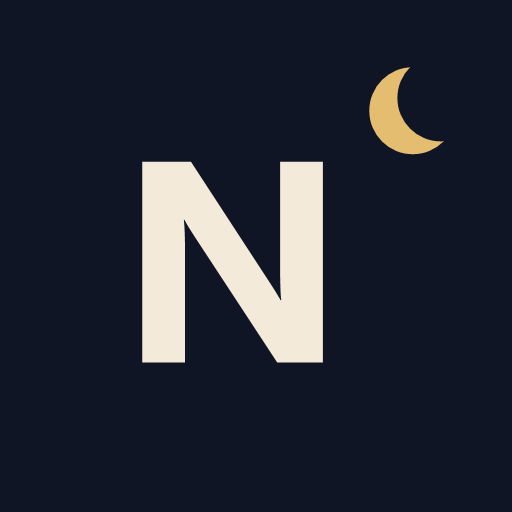
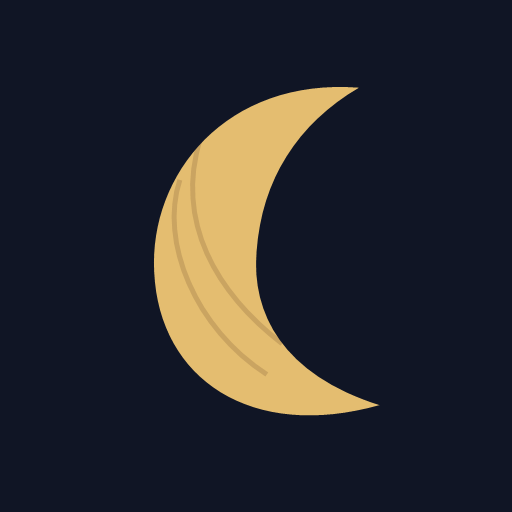
Replace brand monogram with doodled crescent

Changed region(s): [[0.25, 0.1562, 0.75, 0.8125], [0.7188, 0.125, 0.875, 0.3125]]

diff --git a/app/globals.css b/app/globals.css
@@ -20,14 +20,12 @@ a { color: inherit; text-decoration: none; }
 .wordmark { display:inline-flex; align-items:center; gap:12px; font-size:1.08rem; font-weight:700; }
 .wordmark-text { display:inline-flex; align-items:baseline; gap:10px; }
 .wordmark-text small { color:#736f68; font:italic .72rem Georgia,serif; font-weight:400; }
-.brand-mark { position:relative; isolation:isolate; width:36px; height:36px; flex:0 0 36px; display:grid; place-items:center; overflow:hidden; background:#101525; color:#f3ead9; font:600 1.28rem/1 "Segoe UI",Arial,sans-serif !important; letter-spacing:-.09em; border-radius:7px; box-shadow:inset 0 0 0 1px rgba(243,234,217,.12); }
-.brand-mark::before, .brand-mark::after { content:""; position:absolute; z-index:-1; border-radius:50%; pointer-events:none; }
-.brand-mark::before { width:6px; height:6px; right:4px; top:5px; background:#e4bd70; }
-.brand-mark::after { width:6px; height:6px; right:2px; top:4px; background:#101525; }
-.brand-mark.compact { width:30px; height:30px; flex-basis:30px; border-radius:6px; font-size:1.05rem !important; }
-.brand-mark.compact::before, .brand-mark.compact::after { width:5px; height:5px; }
-.brand-mark.compact::before { right:3px; top:4px; }
-.brand-mark.compact::after { right:1px; top:3px; }
+.doodle-moon { --moon-cutout:#101525; position:relative; display:inline-block; width:.72em; height:1em; overflow:hidden; border-radius:58% 43% 55% 46% / 49% 45% 57% 52%; background:radial-gradient(circle at 31% 28%,rgba(111,75,43,.3) 0 .035em,transparent .055em),radial-gradient(circle at 36% 63%,rgba(255,239,190,.2) 0 .028em,transparent .05em),#e4bd70; box-shadow:inset .035em -.025em 0 rgba(113,75,40,.2); transform:rotate(-8deg); }
+.doodle-moon::after { content:""; position:absolute; width:78%; height:93%; left:43%; top:-7%; border-radius:54% 49% 47% 56% / 48% 55% 45% 52%; background:var(--moon-cutout); transform:rotate(4deg); }
+.brand-mark { position:relative; width:36px; height:36px; flex:0 0 36px; display:grid; place-items:center; overflow:hidden; background:#101525; border-radius:7px; box-shadow:inset 0 0 0 1px rgba(243,234,217,.12); }
+.brand-mark .doodle-moon { width:18px; height:25px; }
+.brand-mark.compact { width:30px; height:30px; flex-basis:30px; border-radius:6px; }
+.brand-mark.compact .doodle-moon { width:15px; height:21px; }
 nav { display: flex; gap: clamp(20px, 4vw, 48px); font-size: .86rem; }
 nav a { position: relative; }
 nav a::after { content: ""; position: absolute; left: 0; right: 100%; bottom: -7px; border-bottom: 1px solid; transition: right .25s; }
@@ -93,8 +91,9 @@ nav a:hover::after, nav a:focus-visible::after { right: 0; }
 .note div > p:last-child { margin:0; color:#625e5a; line-height:1.75; font-size:.9rem; }
 .note-arrow { font-size:1.2rem; transition:transform .2s; }.note:hover .note-arrow { transform:translate(5px,-5px); }
 .about { background:#20222c; color:#e8dfd1; padding:90px clamp(24px,8vw,128px); display:grid; grid-template-columns:.45fr .8fr 1.3fr; gap:50px; align-items:center; }
-.about-mark { font-size:5rem; color:#d8ad67; margin:0; }.about h2 { margin:0; font-size:clamp(1.8rem,3vw,3.4rem); font-weight:500; }.about > p:last-child { line-height:2.1; color:#bcb4aa; max-width:40em; }
-footer { background:#171820; color:#8e8983; display:flex; justify-content:space-between; padding:26px clamp(24px,8vw,128px); font-size:.72rem; letter-spacing:.08em; }
+.about-mark { margin:0; }.about-mark .doodle-moon { --moon-cutout:#20222c; width:3.1rem; height:4.4rem; }.about h2 { margin:0; font-size:clamp(1.8rem,3vw,3.4rem); font-weight:500; }.about > p:last-child { line-height:2.1; color:#bcb4aa; max-width:40em; }
+footer { background:#171820; color:#8e8983; display:flex; justify-content:space-between; align-items:center; padding:26px clamp(24px,8vw,128px); font-size:.72rem; letter-spacing:.08em; }
+.footer-moon { --moon-cutout:#171820; width:10px; height:15px; opacity:.78; }
 
 .inner-page { min-height:100svh; background:#eee8dc; }
 .inner-topbar { position:relative; height:94px; padding:0 clamp(24px,6vw,88px); display:grid; grid-template-columns:1fr auto 1fr; align-items:center; border-bottom:5px solid #27242a; background:#e8e1d5; }
@@ -124,9 +123,9 @@ footer { background:#171820; color:#8e8983; display:flex; justify-content:space-
 .inner-heading > span { color:#69635e; line-height:1.8; font-size:.9rem; }
 .article-index article { display:grid; grid-template-columns:.65fr 2.35fr auto; gap:40px; padding:38px 0; border-bottom:1px solid rgba(32,31,38,.24); align-items:start; }
 .article-number { color:#9b5b4e; font:italic 1rem Georgia,serif; }.article-index article p { margin:0 0 11px; color:#827970; font-size:.72rem; letter-spacing:.08em; }.article-index h2 { margin:0 0 11px; font-size:clamp(1.35rem,2.3vw,2.15rem); font-weight:500; }.article-index article div > span { color:#68635e; line-height:1.75; font-size:.9rem; }.article-index article > a { font-size:1.2rem; transition:transform .2s; }.article-index article:hover > a { transform:translate(4px,-4px); }
-.about-story { display:grid; grid-template-columns:.65fr 2.35fr; gap:40px; padding-top:70px; }.story-moon { color:#b77a4a; font-size:7rem; line-height:1; }.about-story > div { max-width:680px; }.about-story p { margin:0 0 28px; font-size:clamp(1.05rem,1.8vw,1.3rem); line-height:2.1; }.about-story a { display:inline-block; margin-top:20px; padding-bottom:7px; border-bottom:1px solid; font-size:.86rem; letter-spacing:.08em; }.about-story a span { margin-left:34px; }
+.about-story { display:grid; grid-template-columns:.65fr 2.35fr; gap:40px; padding-top:70px; }.story-moon .doodle-moon { --moon-cutout:#eee8dc; width:4.9rem; height:6.8rem; }.about-story > div { max-width:680px; }.about-story p { margin:0 0 28px; font-size:clamp(1.05rem,1.8vw,1.3rem); line-height:2.1; }.about-story a { display:inline-block; margin-top:20px; padding-bottom:7px; border-bottom:1px solid; font-size:.86rem; letter-spacing:.08em; }.about-story a span { margin-left:34px; }
 .author-note { margin:58px 0 18px; padding:30px; display:grid; grid-template-columns:72px minmax(0,1fr); gap:24px; align-items:start; border:1px solid rgba(32,31,38,.24); background:rgba(255,255,255,.14); }
-.author-monogram { width:64px; height:64px; display:grid; place-items:center; border-radius:9px; background:#101525; color:#f3ead9; font:600 2rem/1 "Segoe UI",Arial,sans-serif !important; }
+.author-monogram { width:64px; height:64px; display:grid; place-items:center; border-radius:9px; background:#101525; }.author-monogram .doodle-moon { width:27px; height:38px; }
 .about-story .author-note p { margin:0 0 8px; color:#9b5b4e; font:.68rem Arial,sans-serif; letter-spacing:.18em; text-transform:uppercase; }
 .author-note h2 { margin:0 0 14px; font-size:1.7rem; font-weight:500; }
 .author-note div div { color:#5d5853; font-size:1rem; line-height:1.95; }
@@ -177,7 +176,7 @@ footer { background:#171820; color:#8e8983; display:flex; justify-content:space-
 .safe-markdown { padding-top:55px; color:#484440; font-size:1rem; line-height:2; }.safe-markdown h1, .safe-markdown h2, .safe-markdown h3 { color:#242227; font-weight:500; line-height:1.35; }.safe-markdown h1 { margin:58px 0 22px; font-size:2.5rem; }.safe-markdown h2 { margin:52px 0 20px; font-size:2rem; }.safe-markdown h3 { margin:42px 0 17px; font-size:1.5rem; }.safe-markdown p { margin:0 0 24px; }.safe-markdown ul, .safe-markdown ol { padding-left:1.4em; margin:0 0 28px; }.safe-markdown blockquote { margin:30px 0; padding:18px 24px; border-left:4px solid #a65346; background:#e3dacd; color:#5b514c; }.safe-markdown a { color:#9d4e43; border-bottom:1px solid currentColor; }.safe-markdown code:not(pre code) { padding:2px 6px; background:#ded5c8; font: .88em Consolas,monospace; }.safe-markdown img { display:block; width:100%; max-height:720px; object-fit:contain; margin:38px auto; background:#d9d0c4; }.markdown-code { margin:32px 0; background:#1d202a; color:#eee7da; box-shadow:7px 7px 0 #cbbfb1; }.markdown-code small { display:block; padding:9px 16px; border-bottom:1px solid #3b3d46; color:#c89874; font:.62rem Arial,sans-serif; letter-spacing:.14em; text-transform:uppercase; }.markdown-code pre { margin:0; padding:24px; overflow:auto; line-height:1.75; font:.82rem Consolas,"Courier New",monospace; }
 
 .studio-page, .studio-gate { min-height:100svh; background:#151821; color:#ebe4d9; }.studio-gate { display:grid; place-items:center; padding:30px; background:radial-gradient(circle at 65% 25%,#303442 0,transparent 34%),#151821; }.studio-gate section { width:min(530px,100%); padding:52px; border:1px solid #4a4d58; background:rgba(27,30,39,.92); box-shadow:22px 22px 0 rgba(0,0,0,.2); text-align:center; }.studio-gate section > span { color:#cf9f69; font:.66rem Arial,sans-serif; letter-spacing:.2em; text-transform:uppercase; }.studio-gate h1 { margin:18px 0 22px; font-size:clamp(2rem,3.4vw,2.9rem); font-weight:500; }.studio-gate p { color:#b9b3aa; line-height:1.9; }.studio-gate small { display:block; margin-top:24px; color:#85858b; line-height:1.6; }.studio-login-state { width:max-content; margin:22px auto 0; padding:7px 11px; display:flex; align-items:center; gap:8px; border:1px solid #555965; color:#b9b3aa; font-size:.75rem; }.studio-login-state i, .studio-session-state i { width:7px; height:7px; border-radius:50%; background:#a86257; }.studio-google-login { min-height:80px; margin-top:22px; display:grid; place-items:center; align-content:center; }.studio-google-button { min-height:44px; display:flex; justify-content:center; }.studio-login-loading { margin:8px 0 0; font-size:.75rem; }.studio-login-fallback { margin-top:8px; }.studio-login-fallback p { margin:0 0 10px; color:#f0b5a9; font-size:.8rem; }.studio-login-fallback button { padding:9px 13px; border:1px solid #a97057; background:#a65346; color:#fff; cursor:pointer; font-family:inherit; }.studio-login-error { margin:18px 0 0; padding:12px; border:1px solid #a86257; color:#f0b5a9; font-size:.82rem; }
-.studio-shell { min-height:100svh; background:#171a23; }.studio-header { height:86px; padding:0 34px; display:flex; align-items:center; justify-content:space-between; border-bottom:1px solid #3b3e48; background:#1e212b; }.studio-header > div:first-child { display:flex; align-items:baseline; gap:18px; }.studio-header span { color:#c79568; font:.62rem Arial,sans-serif; letter-spacing:.16em; text-transform:uppercase; }.studio-header h1 { margin:0; font-size:1.45rem; font-weight:500; }.studio-header > div:last-child { display:flex; align-items:center; gap:20px; }.studio-header small { color:#96959b; }.studio-session-state { padding:6px 9px; display:inline-flex; align-items:center; gap:7px; border:1px solid #48564d; color:#9fc2a5 !important; }.studio-session-state i { flex:0 0 auto; background:#78a982; box-shadow:0 0 0 3px rgba(120,169,130,.12); }.studio-header button { border:1px solid #555862; background:transparent; color:#d9d3cb; padding:8px 13px; cursor:pointer; }.studio-layout { min-height:calc(100svh - 86px); display:grid; grid-template-columns:285px minmax(0,1fr); }.studio-sidebar { padding:22px; border-right:1px solid #3b3e48; background:#1b1e27; }.studio-new { width:100%; padding:13px; border:1px solid #a97057; background:#a65346; color:white; cursor:pointer; font-family:inherit; }.studio-sidebar nav { margin-top:24px; display:flex; flex-direction:column; gap:7px; }.studio-sidebar nav button { width:100%; padding:15px; border:1px solid transparent; background:transparent; color:#d7d0c7; text-align:left; cursor:pointer; font-family:inherit; }.studio-sidebar nav button.active { border-color:#555865; background:#282b35; }.studio-sidebar nav button span, .studio-sidebar nav button small { display:block; color:#898891; font-size:.63rem; }.studio-sidebar nav button strong { display:block; margin:7px 0; overflow:hidden; text-overflow:ellipsis; white-space:nowrap; font-size:.85rem; font-weight:500; }.studio-editor { position:relative; display:grid; grid-template-columns:minmax(420px,1fr) minmax(320px,.72fr); min-width:0; }.studio-fields { padding:38px; border-right:1px solid #3b3e48; }.studio-fields label > span, .studio-preview > span { display:block; margin-bottom:8px; color:#9f9da3; font:.65rem Arial,sans-serif; letter-spacing:.12em; text-transform:uppercase; }.studio-fields label { display:block; margin-bottom:24px; }.studio-fields input, .studio-fields textarea, .studio-fields select { width:100%; border:1px solid #484b55; outline:0; background:#20232d; color:#eee7dc; padding:12px 13px; font:inherit; }.studio-fields input:focus, .studio-fields textarea:focus, .studio-fields select:focus { border-color:#bc7a60; }.studio-field-row { display:grid; grid-template-columns:.55fr 1fr; gap:16px; }.studio-excerpt { height:82px; resize:vertical; }.studio-content { min-height:480px; resize:vertical; line-height:1.8; font-family:Consolas,"Courier New",monospace !important; font-size:.86rem !important; }.editor-toolbar { display:flex; flex-wrap:wrap; gap:7px; margin:-4px 0 12px; }.editor-toolbar button, .image-upload { border:1px solid #4c4f5a; background:#262934; color:#c8c3bd; padding:7px 10px; cursor:pointer; font: .7rem Arial,sans-serif; }.image-upload input { display:none; }.studio-preview { padding:38px; min-width:0; overflow:auto; background:#e9e2d7; color:#29272b; }.studio-preview .safe-markdown { padding-top:20px; }.studio-preview .safe-markdown h1 { font-size:2rem; }.studio-preview .safe-markdown h2 { font-size:1.55rem; }.studio-preview .safe-markdown h3 { font-size:1.25rem; }.studio-actions { grid-column:1/-1; position:sticky; bottom:0; z-index:3; padding:16px 28px; display:flex; justify-content:space-between; align-items:center; background:#22252f; color:#aaa7a6; border-top:1px solid #42454f; font-size:.72rem; }.studio-actions > div { display:flex; align-items:center; gap:8px; }.studio-actions button, .studio-welcome button { padding:10px 14px; border:1px solid #555965; background:transparent; color:#ddd7ce; cursor:pointer; font-family:inherit; }.studio-actions button.publish, .studio-welcome button { border-color:#a65346; background:#a65346; color:white; }.studio-actions button.archive { color:#c79588; }.studio-actions button:disabled, .studio-new:disabled { opacity:.55; cursor:wait; }.status-dot { width:8px; height:8px; border-radius:50%; background:#8b8990; }.status-dot.published { background:#7eaa7e; }.status-dot.archived { background:#a36b64; }.studio-message { position:fixed; right:25px; bottom:78px; z-index:5; max-width:430px; margin:0; padding:12px 16px; background:#2d303a; border:1px solid #5d6069; color:#e5ded5; box-shadow:0 8px 28px rgba(0,0,0,.25); font-size:.78rem; }.studio-welcome { place-self:center; text-align:center; max-width:500px; }.studio-welcome > span { color:#d2a061; font-size:4rem; }.studio-welcome h2 { font-size:2.4rem; font-weight:500; }.studio-welcome p { color:#9e9ba0; line-height:1.8; }.studio-welcome button { margin-top:20px; }
+.studio-shell { min-height:100svh; background:#171a23; }.studio-header { height:86px; padding:0 34px; display:flex; align-items:center; justify-content:space-between; border-bottom:1px solid #3b3e48; background:#1e212b; }.studio-header > div:first-child { display:flex; align-items:baseline; gap:18px; }.studio-header span { color:#c79568; font:.62rem Arial,sans-serif; letter-spacing:.16em; text-transform:uppercase; }.studio-header h1 { margin:0; font-size:1.45rem; font-weight:500; }.studio-header > div:last-child { display:flex; align-items:center; gap:20px; }.studio-header small { color:#96959b; }.studio-session-state { padding:6px 9px; display:inline-flex; align-items:center; gap:7px; border:1px solid #48564d; color:#9fc2a5 !important; }.studio-session-state i { flex:0 0 auto; background:#78a982; box-shadow:0 0 0 3px rgba(120,169,130,.12); }.studio-header button { border:1px solid #555862; background:transparent; color:#d9d3cb; padding:8px 13px; cursor:pointer; }.studio-layout { min-height:calc(100svh - 86px); display:grid; grid-template-columns:285px minmax(0,1fr); }.studio-sidebar { padding:22px; border-right:1px solid #3b3e48; background:#1b1e27; }.studio-new { width:100%; padding:13px; border:1px solid #a97057; background:#a65346; color:white; cursor:pointer; font-family:inherit; }.studio-sidebar nav { margin-top:24px; display:flex; flex-direction:column; gap:7px; }.studio-sidebar nav button { width:100%; padding:15px; border:1px solid transparent; background:transparent; color:#d7d0c7; text-align:left; cursor:pointer; font-family:inherit; }.studio-sidebar nav button.active { border-color:#555865; background:#282b35; }.studio-sidebar nav button span, .studio-sidebar nav button small { display:block; color:#898891; font-size:.63rem; }.studio-sidebar nav button strong { display:block; margin:7px 0; overflow:hidden; text-overflow:ellipsis; white-space:nowrap; font-size:.85rem; font-weight:500; }.studio-editor { position:relative; display:grid; grid-template-columns:minmax(420px,1fr) minmax(320px,.72fr); min-width:0; }.studio-fields { padding:38px; border-right:1px solid #3b3e48; }.studio-fields label > span, .studio-preview > span { display:block; margin-bottom:8px; color:#9f9da3; font:.65rem Arial,sans-serif; letter-spacing:.12em; text-transform:uppercase; }.studio-fields label { display:block; margin-bottom:24px; }.studio-fields input, .studio-fields textarea, .studio-fields select { width:100%; border:1px solid #484b55; outline:0; background:#20232d; color:#eee7dc; padding:12px 13px; font:inherit; }.studio-fields input:focus, .studio-fields textarea:focus, .studio-fields select:focus { border-color:#bc7a60; }.studio-field-row { display:grid; grid-template-columns:.55fr 1fr; gap:16px; }.studio-excerpt { height:82px; resize:vertical; }.studio-content { min-height:480px; resize:vertical; line-height:1.8; font-family:Consolas,"Courier New",monospace !important; font-size:.86rem !important; }.editor-toolbar { display:flex; flex-wrap:wrap; gap:7px; margin:-4px 0 12px; }.editor-toolbar button, .image-upload { border:1px solid #4c4f5a; background:#262934; color:#c8c3bd; padding:7px 10px; cursor:pointer; font: .7rem Arial,sans-serif; }.image-upload input { display:none; }.studio-preview { padding:38px; min-width:0; overflow:auto; background:#e9e2d7; color:#29272b; }.studio-preview .safe-markdown { padding-top:20px; }.studio-preview .safe-markdown h1 { font-size:2rem; }.studio-preview .safe-markdown h2 { font-size:1.55rem; }.studio-preview .safe-markdown h3 { font-size:1.25rem; }.studio-actions { grid-column:1/-1; position:sticky; bottom:0; z-index:3; padding:16px 28px; display:flex; justify-content:space-between; align-items:center; background:#22252f; color:#aaa7a6; border-top:1px solid #42454f; font-size:.72rem; }.studio-actions > div { display:flex; align-items:center; gap:8px; }.studio-actions button, .studio-welcome button { padding:10px 14px; border:1px solid #555965; background:transparent; color:#ddd7ce; cursor:pointer; font-family:inherit; }.studio-actions button.publish, .studio-welcome button { border-color:#a65346; background:#a65346; color:white; }.studio-actions button.archive { color:#c79588; }.studio-actions button:disabled, .studio-new:disabled { opacity:.55; cursor:wait; }.status-dot { width:8px; height:8px; border-radius:50%; background:#8b8990; }.status-dot.published { background:#7eaa7e; }.status-dot.archived { background:#a36b64; }.studio-message { position:fixed; right:25px; bottom:78px; z-index:5; max-width:430px; margin:0; padding:12px 16px; background:#2d303a; border:1px solid #5d6069; color:#e5ded5; box-shadow:0 8px 28px rgba(0,0,0,.25); font-size:.78rem; }.studio-welcome { place-self:center; text-align:center; max-width:500px; }.studio-welcome > span { display:inline-block; }.studio-welcome > span .doodle-moon { --moon-cutout:#171a23; width:2.6rem; height:3.7rem; }.studio-welcome h2 { font-size:2.4rem; font-weight:500; }.studio-welcome p { color:#9e9ba0; line-height:1.8; }.studio-welcome button { margin-top:20px; }
 
 @media (max-width: 1100px) { .inner-nav a:nth-child(5) { display:none; } .studio-editor { grid-template-columns:1fr; }.studio-preview { border-top:1px solid #3b3e48; }.studio-actions { position:static; } }
 @media (max-width: 760px) { .published-post-list article { grid-template-columns:38px 1fr; gap:16px; }.published-post-list article > a { display:none; }.published-reading { padding-top:65px; }.studio-header { padding:0 18px; }.studio-header > div:first-child span, .studio-header small { display:none; }.studio-header > div:last-child { gap:8px; }.studio-session-state { padding:5px 7px; }.studio-layout { grid-template-columns:1fr; }.studio-sidebar { border-right:0; border-bottom:1px solid #3b3e48; }.studio-sidebar nav { display:grid; grid-template-columns:repeat(2,minmax(0,1fr)); max-height:220px; overflow:auto; }.studio-fields, .studio-preview { padding:24px 18px; }.studio-field-row { grid-template-columns:1fr; gap:0; }.studio-actions { flex-direction:column; align-items:stretch; gap:14px; }.studio-actions > div:last-child { display:grid; grid-template-columns:repeat(3,1fr); }.studio-gate section { padding:38px 24px; } }
@@ -196,7 +195,7 @@ footer { background:#171820; color:#8e8983; display:flex; justify-content:space-
   nav a:nth-child(2) { display:none; } .hero { width:calc(100% - 24px); margin-top:18px; } .window-scene { min-height:390px; }.cat { left:auto; right:-8px; transform:scale(.72); transform-origin:bottom right; }.moon { width:68px; }
   .hero-copy { min-height:440px; padding:58px 28px; }.hero-copy h1 { font-size:2.25rem; }
   .notes { padding-top:80px; }.note { grid-template-columns:30px 1fr; }.note-arrow { display:none; }.note div > p:last-child { display:none; }
-  footer { gap:20px; }.sill span { display:none; }
+  footer { gap:14px; }.footer-moon { margin-left:auto; }.sill span { display:none; }
   .inner-topbar { height:82px; padding:0 18px; }.inner-brand { font-size:.96rem; }.inner-nav { padding-right:76px; gap:15px; }.inner-nav a { display:none; }.inner-nav a:first-child { display:block; }.topbar-cat { right:12px; transform:scale(.78); transform-origin:bottom right; }.inner-content { width:calc(100% - 36px); padding:62px 0 90px; }.inner-heading { grid-template-columns:1fr; gap:18px; }.article-index article { grid-template-columns:32px 1fr; gap:15px; }.article-index article > a, .article-index article div > span { display:none; }.about-story { grid-template-columns:1fr; gap:24px; }.story-moon { font-size:4.5rem; }
   .home-portals { padding:20px 18px 80px; }.portal-heading, .tech-hero { grid-template-columns:1fr; gap:16px; }.portal-heading p, .tech-hero > p { grid-column:auto; }.portal-grid { grid-template-columns:1fr; }.portal-grid a { min-height:210px; border-right:0; border-bottom:1px solid rgba(32,31,38,.22); }.tech-hero, .tech-category-grid, .tech-library, .tech-reading { width:calc(100% - 36px); }.tech-hero { padding:70px 0 50px; }.tech-hero h1 { font-size:3rem; white-space:normal; }.tech-category-grid { grid-template-columns:1fr; }.tech-category-card, .quick-look-entry { min-height:285px; }.tech-library { padding:80px 0 95px; }.tech-library-head { grid-template-columns:1fr; }.tech-search { justify-self:start; }.tech-filters { overflow-x:auto; }.tech-filters button { white-space:nowrap; }.tech-article-grid, .term-grid { grid-template-columns:1fr; }.tech-card, .term-grid article { min-height:300px; }.quick-intro { grid-template-columns:1fr; }.tech-reading { padding-top:65px; }.tech-reading > header { text-align:left; }.tech-reading > header ul { justify-content:flex-start; }.reading-body { margin-top:55px; }.reading-body aside { grid-template-columns:1fr; }.reading-body aside span { grid-column:auto; }.reading-sections p { font-size:.94rem; }.code-block { margin-left:-9px; margin-right:-9px; }.collection-placeholder { grid-template-columns:1fr; padding:32px; }.collection-placeholder > span { font-size:3rem; }
 }

diff --git a/app/studio/StudioClient.tsx b/app/studio/StudioClient.tsx
@@ -1,6 +1,7 @@
 "use client";
 
 import { useEffect, useRef, useState } from "react";
+import { DoodleMoon } from "../components/BrandMark";
 import { SafeMarkdown } from "../components/SafeMarkdown";
 import { editorTemplates, getEditorTemplate } from "../content/editor-templates";
 import { techCategories, techCollectionLabel, type TechCollection } from "../content/tech";
@@ -366,7 +367,7 @@ export function StudioClient({ initialPosts, email, sessionExpiresAt }: { initia
             {message && <p className="studio-message" role="status">{message}</p>}
           </section>
         ) : (
-          <section className="studio-welcome"><span>☾</span><h2>從第一篇文章開始</h2><p>可以直接使用「var、let、const」範本。建立後仍是私人草稿，只有按下發布才會出現在「技術成長 → Web 開發 → JavaScript」。</p><div><button onClick={() => void createNew("javascript-var-let-const")} disabled={busy}>用 JS 範本開始</button><button className="secondary" onClick={() => void createNew()} disabled={busy}>建立空白文章</button></div>{message && <p role="status">{message}</p>}</section>
+          <section className="studio-welcome"><span><DoodleMoon /></span><h2>從第一篇文章開始</h2><p>可以直接使用「var、let、const」範本。建立後仍是私人草稿，只有按下發布才會出現在「技術成長 → Web 開發 → JavaScript」。</p><div><button onClick={() => void createNew("javascript-var-let-const")} disabled={busy}>用 JS 範本開始</button><button className="secondary" onClick={() => void createNew()} disabled={busy}>建立空白文章</button></div>{message && <p role="status">{message}</p>}</section>
         )}
       </div>
     </div>

diff --git a/app/about/page.tsx b/app/about/page.tsx
@@ -1,5 +1,6 @@
 import type { Metadata } from "next";
 import { TopBar } from "../TopBar";
+import { DoodleMoon } from "../components/BrandMark";
 import { ContactForm } from "./ContactForm";
 import { absoluteSiteUrl, authorName, siteDescription, siteName } from "../lib/site";
 
@@ -33,12 +34,12 @@ export default function AboutPage() {
       <section className="inner-content about-page">
         <header className="inner-heading"><p>About</p><h1>關於這裡</h1><span>整理技術理解，也收藏做過的事與走過的地方。</span></header>
         <div className="about-story">
-          <span className="story-moon">☾</span>
+          <span className="story-moon"><DoodleMoon /></span>
           <div>
             <p>夜行手記不追趕更新頻率，也不把理解壓縮成標準答案。</p>
             <p>這裡會慢慢收進程式概念、專案經驗與旅途記錄。希望每篇內容都保留脈絡與實際使用情境，讓日後回來閱讀時，仍能接續當時的思考。</p>
             <section className="author-note" aria-labelledby="author-note-title">
-              <span className="author-monogram" aria-hidden="true">N</span>
+              <span className="author-monogram" aria-hidden="true"><DoodleMoon /></span>
               <div><p>Site author</p><h2 id="author-note-title">我是 Dennis</h2><div>平常把遇到的 JavaScript、Web 與系統開發問題慢慢拆開，整理成自己能再次讀懂的筆記。這裡也會留下專案過程、馬拉松與旅行中值得記住的事情。</div></div>
             </section>
             <ContactForm />

diff --git a/app/page.tsx b/app/page.tsx
@@ -1,5 +1,5 @@
 import { CatWindow } from "./CatWindow";
-import { BrandMark } from "./components/BrandMark";
+import { BrandMark, DoodleMoon } from "./components/BrandMark";
 import { HomeLatestNotes } from "./components/HomeLatestNotes";
 import { absoluteSiteUrl, authorName, siteDescription, siteEnglishName, siteName } from "./lib/site";
 
@@ -72,7 +72,7 @@ export default function Home() {
       </section>
 
       <section className="about" id="about">
-        <p className="about-mark">☾</p>
+        <p className="about-mark"><DoodleMoon /></p>
         <div>
           <p className="eyebrow">About this place</p>
           <h2>寫給還醒著的人</h2>
@@ -82,6 +82,7 @@ export default function Home() {
 
       <footer>
         <p>© 2026 夜行手記 · Dennis Night Notes</p>
+        <DoodleMoon className="footer-moon" />
         <p>今晚也別太晚睡。</p>
       </footer>
     </main>

diff --git a/app/components/BrandMark.tsx b/app/components/BrandMark.tsx
@@ -1,3 +1,7 @@
+export function DoodleMoon({ className = "" }: { className?: string }) {
+  return <span className={`doodle-moon${className ? ` ${className}` : ""}`} aria-hidden="true" />;
+}
+
 export function BrandMark({ compact = false }: { compact?: boolean }) {
-  return <span className={`brand-mark${compact ? " compact" : ""}`} aria-hidden="true">N</span>;
+  return <span className={`brand-mark${compact ? " compact" : ""}`} aria-hidden="true"><DoodleMoon /></span>;
 }
